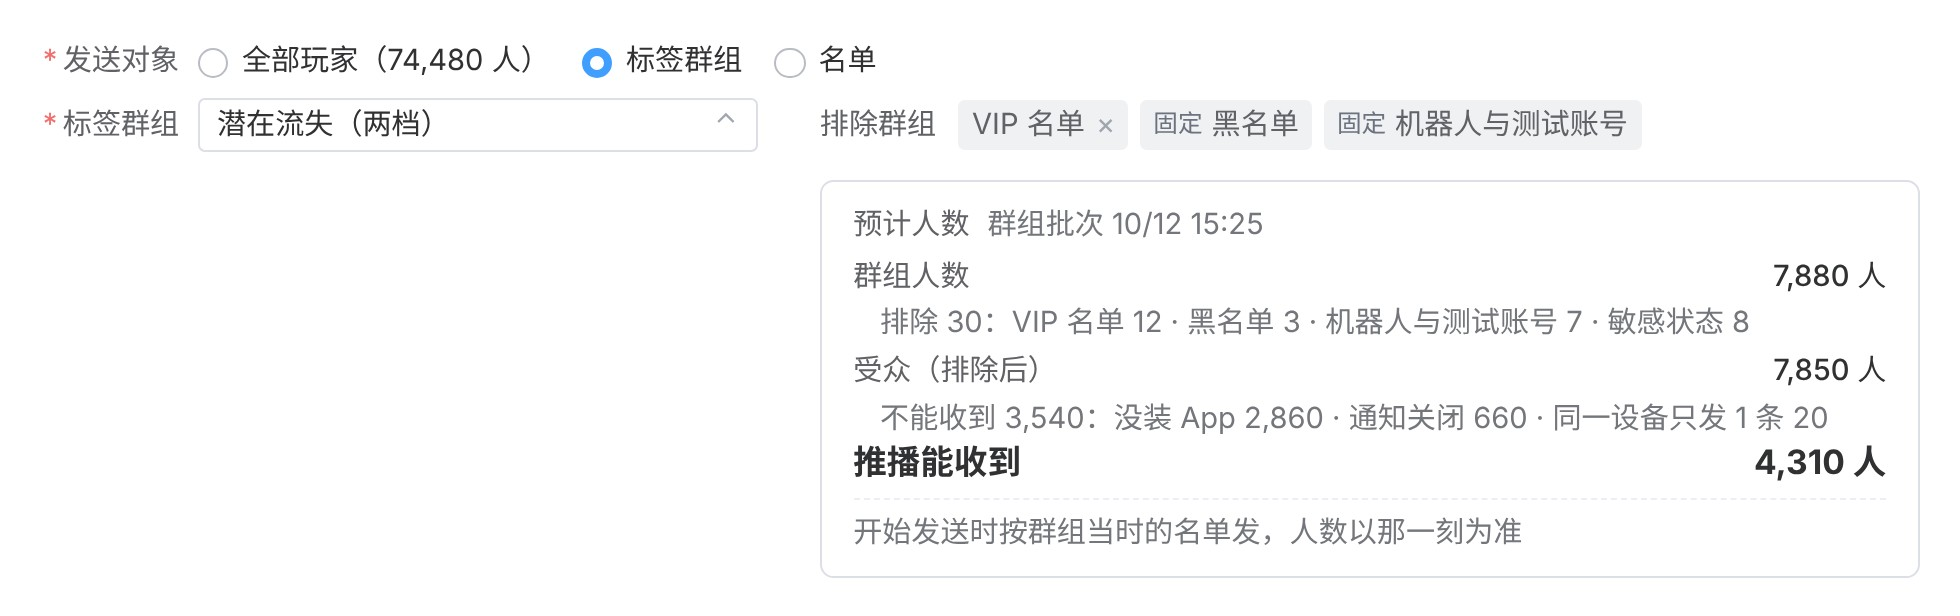
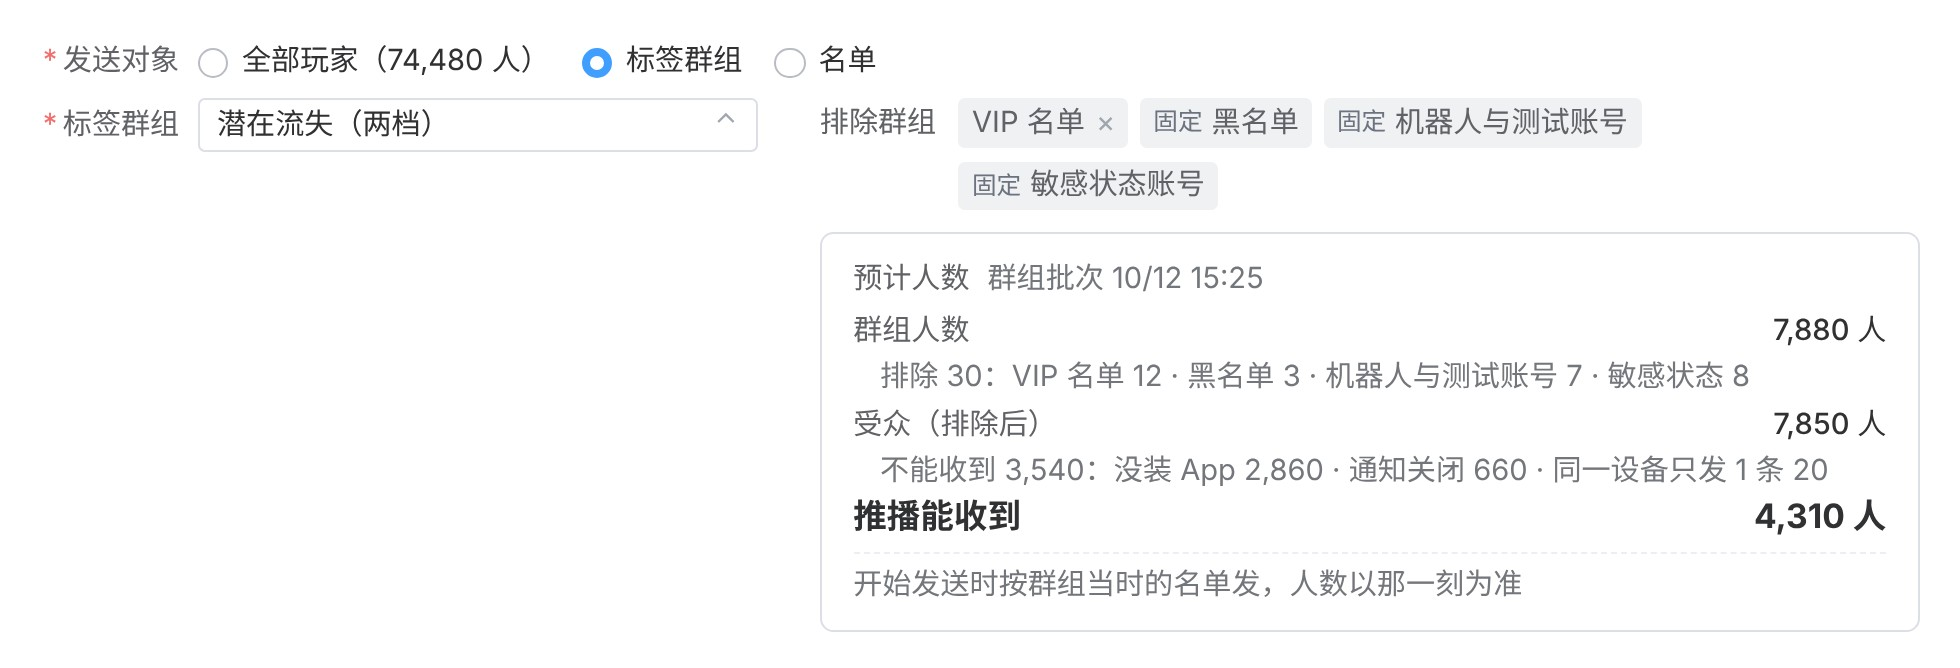
需求评审版复核后小改；简报填交付前必查
Claude-Session: https://claude.ai/code/session_01JtVy4xu4oTwDzwihYuUW45

diff --git a/弹窗标签推送系统/简报/2026-10-20_评审版结构图表与功能取舍.html b/弹窗标签推送系统/简报/2026-10-20_评审版结构图表与功能取舍.html
@@ -156,7 +156,15 @@ td.ok{color:var(--green);font-weight:700;white-space:nowrap} td.no{color:var(--r
 <h2><span class="no">08</span>交付前必查：9 条都过，篇幅一条附说明</h2>
 <table>
 <tr><th>#</th><th>条目</th><th>结果</th><th>证据</th></tr>
-CHECKROWS
+<tr><td class="d">1</td><td class="w">边界看得见</td><td class="ok">过</td><td class="r">无上下文读者从首屏和侧栏答出 3 部分 13 页与各部分内容；随机翻到第 2、4 页能说出所在部分与页码</td></tr>
+<tr><td class="d">2</td><td class="w">标题</td><td class="ok">过</td><td class="r">页标题都是简短名词短语、无副标题；读者指出的 3 个小组名已改（判断顺序、按位置、现有页面移入）</td></tr>
+<tr><td class="d">3</td><td class="w">措辞</td><td class="ok">过</td><td class="r">审读指出 3 处会读偏（优先级、注册后未再登录两档、消息类别），已改，复核员确认不再读偏</td></tr>
+<tr><td class="d">4</td><td class="w">只写有效信息</td><td class="ok">过</td><td class="r">正文不写删掉的功能与取舍；「触达」「口径」「版本对比」「恢复」等字样 0 处</td></tr>
+<tr><td class="d">5</td><td class="w">篇幅</td><td class="ok">过，附说明</td><td class="r">不展开规则时可读约 900 字；全部展开约 6,200 字；19 张图细看约 10 分钟，按评审方会前阅读估</td></tr>
+<tr><td class="d">6</td><td class="w">阅读体验</td><td class="ok">过</td><td class="r">规则折叠后每页只剩标题与截图；读者测试指出的数据图问题（到达率分母、人与人次混用）已改</td></tr>
+<tr><td class="d">7</td><td class="w">读者最先看的地方</td><td class="ok">过</td><td class="r">首屏、各级标题、页头、结尾抽出后我通读，无说明句与元信息</td></tr>
+<tr><td class="d">8</td><td class="w">每个功能先问</td><td class="ok">过</td><td class="r">全部功能写出谁用、多常用、开发量、人工做法；删或换 11 项，审读另提的 3 项当场定</td></tr>
+<tr><td class="d">9</td><td class="w">样章关卡</td><td class="ok">过</td><td class="r">图表先交样章（单条规则、游戏内数据）核对后铺开；全稿由未参与写稿的审读员按类型卡逐条核，不过项改完后由新复核员再核</td></tr>
 </table>
 
 <p class="links">原文：<a href="../推送系统后台集成需求/3_原型_需求评审版.html">需求评审版（成品）</a> · <a href="../分析/A91_评审版功能成本收益.md">功能成本收益</a> · <a href="../分析/需求评审版_改版记录.md">改版记录</a></p>

diff --git a/弹窗标签推送系统/推送系统后台集成需求/需求评审版_原型/02b_预计人数.html b/弹窗标签推送系统/推送系统后台集成需求/需求评审版_原型/02b_预计人数.html
@@ -22,7 +22,7 @@
 <path d="M96.0,50.0 H292.2 Q295.2,50.0 295.2,53.0 V63.0 Q295.2,66.0 292.2,66.0 H96.0 Z" fill="#1F63E0"/>
 <text x="314" y="63" font-size="14" fill="#1F2329" font-weight="700">7,850 人</text>
 <text x="418.0" y="63.0" font-size="13" fill="#1F2329">少 30 人</text>
-<text x="418.0" y="82.0" font-size="12" fill="#6B7280">排除群组：VIP 名单 12 · 黑名单 3 · 机器人与测试账号 7 · 敏感状态 8</text>
+<text x="418.0" y="82.0" font-size="12" fill="#6B7280">排除群组：VIP 名单 12 · 黑名单 3 · 机器人与测试账号 7 · 敏感状态账号 8</text>
 <text x="0.0" y="107.0" font-size="13" fill="#4E5560">能收到</text>
 <line x1="96" x2="96" y1="90" y2="114" stroke="#C9CED6"/>
 <path d="M96.0,94.0 H202.4 Q205.4,94.0 205.4,97.0 V107.0 Q205.4,110.0 202.4,110.0 H96.0 Z" fill="#1F63E0"/>
@@ -40,7 +40,7 @@
 <div class="ch-sec">
   <div class="ch-kv">
     <span>发送方式</span><span>定时 2026-10-15 20:00</span>
-    <span>发送对象</span><span>潜在流失（两档）；排除 VIP 名单、黑名单、机器人与测试账号</span>
+    <span>发送对象</span><span>潜在流失（两档）；排除 VIP 名单、黑名单、机器人与测试账号、敏感状态账号</span>
     <span>测试</span><span>上次测试 10/12 11:12 · 运营01 · 5 个测试账号：已发出 4，未送达 1（测试03 未开启通知）</span>
   </div>
   <div class="ch-row ch-btns"><span class="ch-m">取消</span><span class="ch-sp"></span><span class="btn2">存为草稿</span><span class="btn2">发送测试</span><span class="btn2 p">确认排程</span></div>

diff --git a/弹窗标签推送系统/推送系统后台集成需求/需求评审版源.html b/弹窗标签推送系统/推送系统后台集成需求/需求评审版源.html
@@ -321,7 +321,7 @@ table.et td:nth-child(1){white-space:nowrap}
   </table>
   <h4 class="rg">每人每天收到几条</h4>
   <table class="rule">
-    <tr><td>玩家每天收到几条的分布，图上标出每人每天上限的位置；每天碰到上限的人数与上限拦下人次的走势，图上标出每人每天上限与勿扰设置的改动。</td></tr>
+    <tr><td>玩家每天收到几条的分布，图上标出每人每天上限的位置；每天碰到上限的人数（当天已收满上限条数的玩家）与上限拦下人次（收满后又被拦下的推送）的走势，图上标出每人每天上限与勿扰设置的改动。</td></tr>
   </table>
   <h4 class="rg">单条推送数据</h4>
   <table class="rule">
@@ -421,7 +421,7 @@ table.et td:nth-child(1){white-space:nowrap}
   </table>
   <h4 class="rg">实验</h4>
   <table class="rule">
-    <tr><td>实验组与对照组用标签群组分：按随机分桶号（每位玩家在同一实验里固定的 0–99 号，见第 1 页）建两个群组，如 0–49、50–99，两组各配一条规则，在单条规则数据（第 8 页）里对比。</td></tr>
+    <tr><td>实验组与对照组用标签群组分：按随机分桶号（每位玩家在同一实验里固定的 0–99 号，见第 1 页）建两个群组，如 0–49、50–99，两组各配一条规则，分别看两条规则的数据（第 8 页）对比。</td></tr>
   </table>
     </div>
   </details>

diff --git a/弹窗标签推送系统/推送系统后台集成需求/需求评审版_原型/16_短信.html b/弹窗标签推送系统/推送系统后台集成需求/需求评审版_原型/16_短信.html
@@ -41,7 +41,7 @@ body{font-family:"Inter","Noto Sans CJK SC","PingFang SC","Microsoft YaHei",sans
     <div style="display:flex;gap:28px;align-items:flex-start">
       <div style="flex:1;min-width:0">
         <div class="f"><label style="width:70px"><span class="rq">*</span>标签群组</label><span class="in" style="width:220px">潜在流失（两档）<span class="dn">⌵</span></span></div>
-        <div class="f" style="height:auto;align-items:flex-start;padding-top:4px"><label style="width:70px;line-height:22px">排除群组</label><span style="display:flex;flex-wrap:wrap;gap:6px 0;width:380px"><span class="tg">VIP 名单</span><span class="tg fix">黑名单</span><span class="tg fix">机器人与测试账号</span></span></div>
+        <div class="f" style="height:auto;align-items:flex-start;padding-top:4px"><label style="width:70px;line-height:22px">排除群组</label><span style="display:flex;flex-wrap:wrap;gap:6px 0;width:520px"><span class="tg">VIP 名单</span><span class="tg fix">黑名单</span><span class="tg fix">机器人与测试账号</span><span class="tg fix">敏感状态账号</span></span></div>
       </div>
       <div class="estb" style="width:250px;flex:none">
         <div class="ln"><span>群组人数</span><b>7,880 人</b></div>

diff --git a/弹窗标签推送系统/推送系统后台集成需求/需求评审版_原型/02_新建推播.html b/弹窗标签推送系统/推送系统后台集成需求/需求评审版_原型/02_新建推播.html
@@ -26,7 +26,7 @@ body{font-family:"Inter","Noto Sans CJK SC","PingFang SC","Microsoft YaHei",sans
         <div class="f"><label style="width:70px"><span class="rq">*</span>标签群组</label><span class="in" style="width:250px">潜在流失（两档）<span class="dn">⌃</span></span></div>
       </div>
       <div class="r">
-        <div class="f"><label style="width:auto;padding-right:10px">排除群组</label><span class="tg">VIP 名单</span><span class="tg fix">黑名单</span><span class="tg fix">机器人与测试账号</span></div>
+        <div class="f" style="height:auto;align-items:flex-start;padding-top:2px"><label style="width:auto;padding-right:10px;line-height:22px;white-space:nowrap">排除群组</label><span style="display:flex;flex-wrap:wrap;gap:6px 0"><span class="tg nw">VIP 名单</span><span class="tg fix nw">黑名单</span><span class="tg fix nw">机器人与测试账号</span><span class="tg fix nw">敏感状态账号</span></span></div>
         <div class="estb" style="margin-top:10px;padding:10px 14px">
           <div class="l">预计人数<span class="mute" style="margin-left:8px">群组批次 10/12 15:25</span></div>
           <div class="ln"><span>群组人数</span><b>7,880 人</b></div>

diff --git a/弹窗标签推送系统/推送系统后台集成需求/需求评审版_原型/17_快显.html b/弹窗标签推送系统/推送系统后台集成需求/需求评审版_原型/17_快显.html
@@ -36,7 +36,7 @@ body{font-family:"Inter","Noto Sans CJK SC","PingFang SC","Microsoft YaHei",sans
   <div class="sec" style="padding:12px 18px 14px">
     <div class="sh">发送对象</div>
     <div class="f"><label style="width:70px"><span class="rq">*</span>发送对象</label><span class="in" style="width:130px">触发的玩家<span class="dn">⌵</span></span><span style="color:var(--ink2);margin:0 8px 0 18px">只限群组</span><span class="in ph" style="width:96px">不限<span class="dn">⌵</span></span></div>
-    <div class="f"><label style="width:70px">排除群组</label><span class="tg">VIP 名单</span><span class="tg fix">黑名单</span><span class="tg fix">机器人与测试账号</span></div>
+    <div class="f"><label style="width:70px">排除群组</label><span class="tg">VIP 名单</span><span class="tg fix">黑名单</span><span class="tg fix">机器人与测试账号</span><span class="tg fix">敏感状态账号</span></div>
     <div class="hint" style="height:auto;line-height:18px;padding-left:70px">固定排除的不能移出，VIP 名单默认排除、可移出，同新建推播</div>
   </div>
 

diff --git a/弹窗标签推送系统/推送系统后台集成需求/需求评审版_原型/07_单条漏斗.html b/弹窗标签推送系统/推送系统后台集成需求/需求评审版_原型/07_单条漏斗.html
@@ -11,7 +11,7 @@
 <div class="shot ch" style="width:980px"><div class="ch-z">
 <div class="ch-sec">
   <div class="ch-row"><div class="ch-ttl">周末登录送金币提醒<span class="pd-st">已发送</span><span class="pd-st">推送 46</span></div><span class="ch-sp"></span><span class="btn2">逐人明细</span></div>
-  <div class="ch-meta">推播<i>|</i>定时 10/10 19:00<i>|</i>发送对象：回流；排除 VIP 名单、黑名单、机器人与测试账号</div>
+  <div class="ch-meta">推播<i>|</i>定时 10/10 19:00<i>|</i>发送对象：回流；排除 VIP 名单、黑名单、机器人与测试账号、敏感状态账号</div>
 </div>
 <div class="ch-sec">
   <div class="ch-h">漏斗</div>

diff --git a/弹窗标签推送系统/_scripts/an_评审版图表.py b/弹窗标签推送系统/_scripts/an_评审版图表.py
@@ -829,7 +829,7 @@ def build_00():
 # ================================================================ 示例数据：02b 确认发送前的预计人数（第 1 页的推播：潜在流失两档）
 F02B = [   # 与 02_新建推播 的预计人数一致
     ('群组人数', 7880, '潜在流失（两档）', ''),
-    ('受众', 7850, '少 30 人', '排除群组：VIP 名单 12 · 黑名单 3 · 机器人与测试账号 7 · 敏感状态 8'),
+    ('受众', 7850, '少 30 人', '排除群组：VIP 名单 12 · 黑名单 3 · 机器人与测试账号 7 · 敏感状态账号 8'),
     ('能收到', 4310, '少 3,540 人', '收不到推播：没装 App 2,860 · 通知关闭 660 · 同一设备只发 1 条 20'),
     ('预计发出', 4200, '少 110 人', '每人每天上限拦下：10/15 当天已收满 2 条推播'),
 ]
@@ -847,7 +847,7 @@ def build_02b():
 <div class="ch-sec">
   <div class="ch-kv">
     <span>发送方式</span><span>定时 2026-10-15 20:00</span>
-    <span>发送对象</span><span>潜在流失（两档）；排除 VIP 名单、黑名单、机器人与测试账号</span>
+    <span>发送对象</span><span>潜在流失（两档）；排除 VIP 名单、黑名单、机器人与测试账号、敏感状态账号</span>
     <span>测试</span><span>上次测试 10/12 11:12 · 运营01 · 5 个测试账号：已发出 4，未送达 1（测试03 未开启通知）</span>
   </div>
   <div class="ch-row ch-btns"><span class="ch-m">取消</span><span class="ch-sp"></span><span class="btn2">存为草稿</span><span class="btn2">发送测试</span><span class="btn2 p">确认排程</span></div>
@@ -887,7 +887,7 @@ def build_07():
     blk = sorted(NOTSENT07, key=lambda x: -x[1])
     body = f"""<div class="ch-sec">
   <div class="ch-row"><div class="ch-ttl">周末登录送金币提醒<span class="pd-st">已发送</span><span class="pd-st">推送 46</span></div><span class="ch-sp"></span><span class="btn2">逐人明细</span></div>
-  <div class="ch-meta">推播<i>|</i>定时 10/10 19:00<i>|</i>发送对象：回流；排除 VIP 名单、黑名单、机器人与测试账号</div>
+  <div class="ch-meta">推播<i>|</i>定时 10/10 19:00<i>|</i>发送对象：回流；排除 VIP 名单、黑名单、机器人与测试账号、敏感状态账号</div>
 </div>
 <div class="ch-sec">
   <div class="ch-h">漏斗</div>

diff --git a/弹窗标签推送系统/分析/需求评审版_改版记录.md b/弹窗标签推送系统/分析/需求评审版_改版记录.md
@@ -44,6 +44,7 @@
 - 16_短信：图里没有「按人记录」，不用改。01、02：没有「新增玩家两档」这类标签名，也没有「随机分桶号」，不用改。
 - 12 个源文件 grep「提醒次数、最多提醒、实验分组、按人记录、新增玩家、随机分桶」均为 0。
 - 不在我名下、但同样会被这轮指示碰到的：B 的 14_单条规则数据里有「按实验组与对照组」页签、标题「破产储值弹窗（实验组）」；13_游戏内数据里有「12 活动类·新增玩家」。A91 新加的实验分组一行把数据拆分里的「实验组与对照组」一并删了，13 的规则名也与 11 对不上，请主对话转给 B。19 里「活动类·潜在流失（实验组）」是群组名，保留。
+- 复核补改：02、16、17 排除群组里补上固定排除「敏感状态账号」（与正文第 1 页「固定排除黑名单、机器人与测试账号、敏感状态账号」一致，02 的人数明细里本来就有「敏感状态 8」）；02 因右栏放不下四个标签，排除群组改成可换行，「敏感状态账号」排在第二行。三张已重截并 Read。
 
 ### B 图表（样章）
 
@@ -107,6 +108,7 @@
 - 06、00：到达卡副行两行「到达率 92.6%」「不含 iOS 未接入 5,048」，读者可复算 57,682 ÷（67,324 − 5,048）＝ 92.6%（脚本加了这条检查）；「人均每天收到」副行「按当天收到的玩家」，「人均每天弹窗曝光」副行「按当天看到的玩家」（原想写「收到推送的／看到弹窗的玩家」，00 的卡片放不下，按「缩短措辞、不挤压」改短）。副行统一留两行高，各卡的增减与走势小图对齐；副行不换行，Playwright 检查卡内无溢出。00 外层缩放由 1.06 改为 1，菜单 190px，卡片放得下。
 - 06b：图例「上限设置改动」→「设置改动」，与竖线所指（服务通知是否计入当天条数）一致；分布图去掉柱下的「玩家·天」数与小标题里的「玩家·天」，改为标题「每人每天收到几条　近 30 天平均」、两图各注「占当天收到推播的玩家」「占当天收到短信的玩家」；平均条数一并去掉（与概览的人均每天收到算法、时间段都不同，放在一起容易对不上）。
 - 07：改用一条正常发完的定时推播「推送 46 周末登录送金币提醒」（号码与第 13 页操作纪录里的 31、43、44 不同；不挂项目目录里列出的活动，免得改动 18、18a 的被引用数；先试过推送 43，它在 15:04 被停止，「停止后不再发送」成了最大的未发出原因，不像一条正常推送，已换掉）。定时 10/10 19:00，发送对象「回流」；漏斗全程按人：受众 16,240 → 发送 8,199（少 8,041：收不到推播 7,540 · 每人每天上限拦下 460 · 服务商未受理 41）→ 到达 7,162（少 1,037 · 到达率 95.6%：受理后退回 22 · 无回执 310 · iOS 未接入 705 单列、不进分母）→ 点击 612（点击率 7.5%）；24 小时内登录 3,980 人、付费 214 人 NT$106,800。未发出的原因从多到少：没装 App 5,410、通知关闭 2,130、每人每天上限拦下 460（19:00 不在勿扰时段，没有勿扰顺延）；服务商未受理另列：令牌失效 37、内容格式错误 4。一次性推送不放时间范围切换。
+- 02b、07：排除群组补「敏感状态账号」，与第 1 页正文写法一致——02b 发送对象一行与受众一层的原因（「敏感状态 8」→「敏感状态账号 8」），07 页头发送对象一行；重截后 Read 看过。
 - grep 7 个源文件：「口径」「触达」「实验组与对照组」「玩家·天」均为 0。渲染后用 Read 看过 14 页签、06、00、06b、07 全图或改动处；重叠与溢出检查 0。
 
 ### C 后台结构
